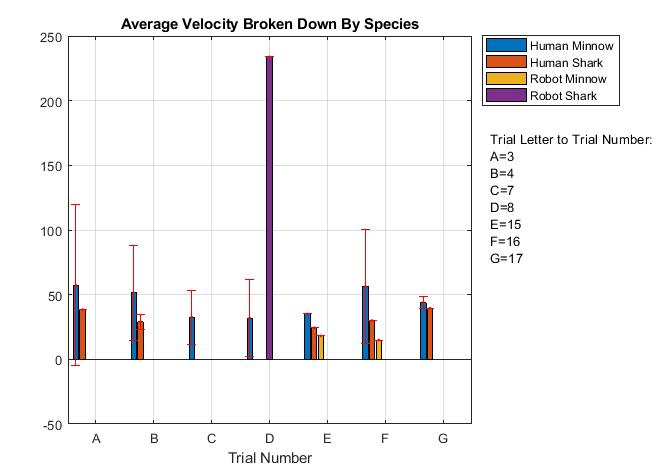
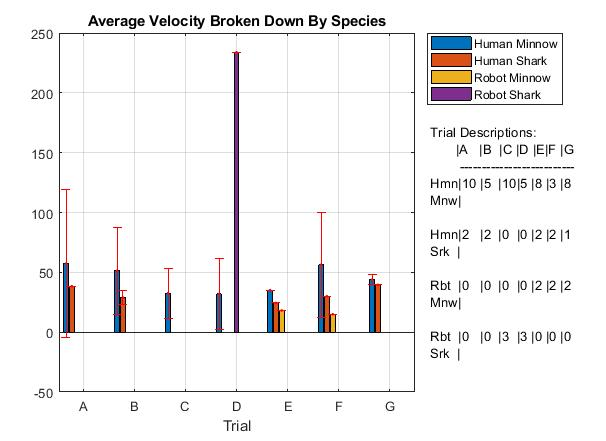
g update
g update

Changed region(s): [[0.0297, 0.0295, 0.9802, 0.9728], [0.802, 0.619, 0.9505, 0.678]]

diff --git a/Data Processing/loopAllTrials.m b/Data Processing/loopAllTrials.m
@@ -232,14 +232,20 @@ end
     
 end
 
-descr = {'Trial Letter to Trial Number:';
-    'A=3';
-    'B=4';
-    'C=7';
-    'D=8';
-    'E=15';
-    'F=16';
-    'G=17'};    
+descr = {'Trial Descriptions:';
+         '       |A   |B  |C |D |E|F |G';
+         '        --------------------------';
+         'Hmn|10 |5  |10|5 |8 |3 |8';
+         'Mnw|       ';
+         '                           ';
+         'Hmn|2   |2  |0  |0 |2 |2 |1 ';
+         'Srk  |';
+         '                         ';
+         'Rbt  |0   |0  |0  |0 |2 |2 |2 ';
+         'Mnw|';
+         '                         ';
+         'Rbt  |0   |0  |3  |3 |0 |0 |0 ';
+         'Srk  |';};    
 
 %plotting the data analysis
 
@@ -260,13 +266,19 @@ end
 hold off
 
     title('Minimum Distance Broken Down By Species')
-    xlabel('Trial Number')
+    xlabel('Trial')
 colormap(summer(4));
 grid on
 l = cell(1,4);
 l{1}='Human Minnow'; l{2}='Human Shark'; l{3}='Robot Minnow'; l{4}='Robot Shark';    
 legend(h,l,'Location','bestoutside');
-text(7.8,1400,descr)
+text(7.8,1100,descr)
+%dat = [10, 2, 0, 0; 5, 2, 0, 0; 10, 0, 0, 3; 5, 0, 0, 3; 8, 2, 2, 0; 3, 2, 2, 0; 8, 1, 2, 0];
+%cnames = {'Human Minnow','Human Shark','Robot Minnow','Robot Shark'};
+%rnames = {'Aa','Ba','Ca','Da','Ea','Fa','Ga'};
+%t = uitable(h);
+%t.data = dat;
+%t.ColumnName = cnames;
 
 %this plots the total distance bar plot with error bars, the error bars are added in the two
 %for loops 
@@ -285,13 +297,13 @@ end
 hold off
 
 title('Total Distance Broken Down By Species')
-    xlabel('Trial Number')
+    xlabel('Trial')
 colormap(summer(4));
 grid on
 l = cell(1,4);
 l{1}='Human Minnow'; l{2}='Human Shark'; l{3}='Robot Minnow'; l{4}='Robot Shark';    
 legend(p,l,'Location','bestoutside');
-text(7.8,11000,descr)
+text(7.8,9000,descr)
 
 %this plots the velocity bar plot with error bars, the error bars are added in the two
 %for loops 
@@ -310,13 +322,13 @@ end
 hold off
 
     title('Average Velocity Broken Down By Species')
-    xlabel('Trial Number') 
+    xlabel('Trial') 
     colormap(summer(4));
 grid on
 l = cell(1,4);
 l{1}='Human Minnow'; l{2}='Human Shark'; l{3}='Robot Minnow'; l{4}='Robot Shark';    
 legend(y,l,'Location','bestoutside');
-text(7.8,125,descr)
+text(7.8,75,descr)
 
 %this plots the total time bar plot with error bars, the error bars are added in the two
 %for loops
@@ -335,10 +347,10 @@ end
 hold off
 
     title('Average Time Broken Down By Species')
-    xlabel('Trial Number')     
+    xlabel('Trial')     
     colormap(summer(4));
 grid on
 l = cell(1,4);
 l{1}='Human Minnow'; l{2}='Human Shark'; l{3}='Robot Minnow'; l{4}='Robot Shark';    
 legend(u,l,'Location','bestoutside');
-text(7.8,225,descr)
+text(7.8,175,descr)
